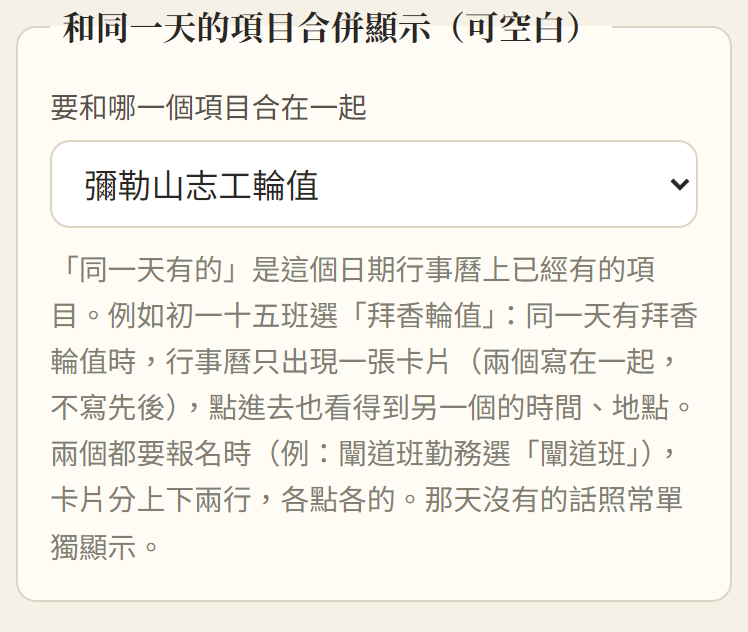
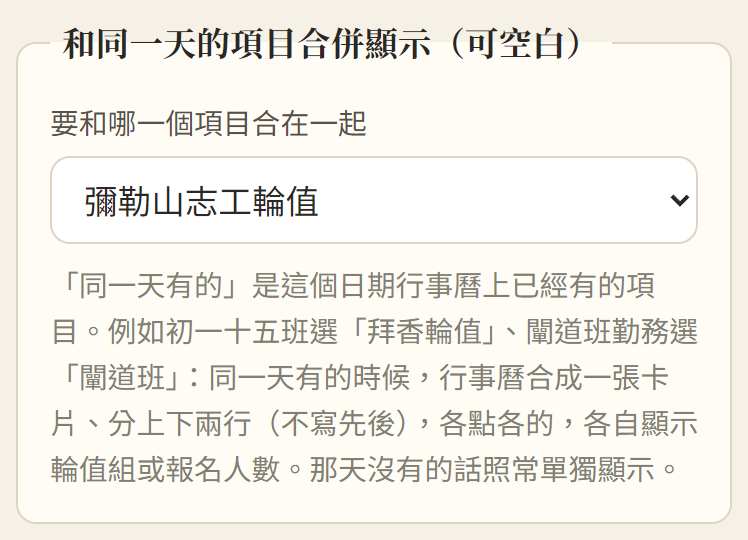
初一十五班＋拜香輪值的卡片也分上下兩行，和闡道班一樣

diff --git a/index.html b/index.html
@@ -23,7 +23,7 @@
   <link rel="preconnect" href="https://fonts.googleapis.com">
   <link rel="preconnect" href="https://fonts.gstatic.com" crossorigin>
   <link href="https://fonts.googleapis.com/css2?family=Noto+Sans+TC:wght@400;500;700&family=Noto+Serif+TC:wght@600;700&display=swap" rel="stylesheet">
-  <link rel="stylesheet" href="css/app.css?v=20261123o">
+  <link rel="stylesheet" href="css/app.css?v=20261123p">
   <script>try { var t = localStorage.getItem('duty-calendar:text-size'); if (t === 'l' || t === 'xl') document.documentElement.classList.add('text-' + t); } catch (e) {}</script>
 </head>
 <body class="splash-on">
@@ -118,70 +118,70 @@
   <script src="https://cdn.jsdelivr.net/npm/fullcalendar@6.1.21/index.global.min.js"></script>
   <script src="https://cdn.jsdelivr.net/npm/@fullcalendar/core@6.1.21/locales/zh-tw.global.min.js"></script>
   <!-- 改了 js、css 後把 ?v= 的日期換新，手機才不會用到舊的檔案（GitHub Pages 會快取 10 分鐘） -->
-  <script src="js/site.js?v=20261123o"></script>
-  <script src="js/region.js?v=20261123o"></script>
-  <script src="js/config.js?v=20261123o"></script>
-  <script src="js/api.js?v=20261123o"></script>
-  <script src="js/format.js?v=20261123o"></script>
-  <script src="js/member-suggest.js?v=20261123o"></script>
-  <script src="js/newcomer.js?v=20261123o"></script>
-  <script src="js/album.js?v=20261123o"></script>
-  <script src="js/member-file.js?v=20261123o"></script>
-  <script src="js/family.js?v=20261123o"></script>
-  <script src="js/lunar-util.js?v=20261123o"></script>
-  <script src="js/date-list.js?v=20261123o"></script>
-  <script src="js/share.js?v=20261123o"></script>
-  <script src="js/addcal.js?v=20261123o"></script>
-  <script src="js/duty-cache.js?v=20261123o"></script>
-  <script src="js/thanks-board.js?v=20261123o"></script>
-  <script src="js/calendar.js?v=20261123o"></script>
-  <script src="js/confirm.js?v=20261123o"></script>
-  <script src="js/reschedule.js?v=20261123o"></script>
-  <script src="js/signup.js?v=20261123o"></script>
-  <script src="js/duty-images.js?v=20261123o"></script>
-  <script src="js/roster-grid.js?v=20261123o"></script>
-  <script src="js/grid-page.js?v=20261123o"></script>
-  <script src="js/grid-image.js?v=20261123o"></script>
-  <script src="js/thanks-image.js?v=20261123o"></script>
-  <script src="js/celebrate.js?v=20261123o"></script>
-  <script src="js/duty.js?v=20261123o"></script>
-  <script src="js/mine.js?v=20261123o"></script>
-  <script src="js/venue-hours.js?v=20261123o"></script>
-  <script src="js/venue.js?v=20261123o"></script>
-  <script src="js/push.js?v=20261123o"></script>
-  <script src="js/admin.js?v=20261123o"></script>
-  <script src="js/admin-pages.js?v=20261123o"></script>
-  <script src="js/draft-editor.js?v=20261123o"></script>
-  <script src="js/group-fair.js?v=20261123o"></script>
-  <script src="js/admin-duties.js?v=20261123o"></script>
-  <script src="js/admin-accounts.js?v=20261123o"></script>
-  <script src="js/admin-site.js?v=20261123o"></script>
-  <script src="js/region-setup.js?v=20261123o"></script>
-  <script src="js/import-parse.js?v=20261123o"></script>
-  <script src="js/admin-import.js?v=20261123o"></script>
-  <script src="js/admin-people.js?v=20261123o"></script>
-  <script src="js/admin-hq.js?v=20261123o"></script>
-  <script src="js/stats-calc.js?v=20261123o"></script>
-  <script src="js/edu-stats.js?v=20261123o"></script>
-  <script src="js/edu-care.js?v=20261123o"></script>
-  <script src="js/admin-goals.js?v=20261123o"></script>
-  <script src="js/admin-venue.js?v=20261123o"></script>
-  <script src="js/admin-push.js?v=20261123o"></script>
-  <script src="js/tutorial.js?v=20261123o"></script>
-  <script src="js/help.js?v=20261123o"></script>
-  <script src="js/rollcall.js?v=20261123o"></script>
-  <script src="js/stats-export.js?v=20261123o"></script>
-  <script src="js/repair.js?v=20261123o"></script>
-  <script src="js/activity-report.js?v=20261123o"></script>
-  <script src="js/member-stats.js?v=20261123o"></script>
-  <script src="js/admin-stats.js?v=20261123o"></script>
-  <script src="js/admin-report.js?v=20261123o"></script>
-  <script src="js/admin-recent-signups.js?v=20261123o"></script>
-  <script src="js/admin-notice.js?v=20261123o"></script>
-  <script src="js/admin-notify.js?v=20261123o"></script>
-  <script src="js/history-parse.js?v=20261123o"></script>
-  <script src="js/admin-history.js?v=20261123o"></script>
-  <script src="js/easy-mode.js?v=20261123o"></script>
-  <script src="js/app.js?v=20261123o"></script>
+  <script src="js/site.js?v=20261123p"></script>
+  <script src="js/region.js?v=20261123p"></script>
+  <script src="js/config.js?v=20261123p"></script>
+  <script src="js/api.js?v=20261123p"></script>
+  <script src="js/format.js?v=20261123p"></script>
+  <script src="js/member-suggest.js?v=20261123p"></script>
+  <script src="js/newcomer.js?v=20261123p"></script>
+  <script src="js/album.js?v=20261123p"></script>
+  <script src="js/member-file.js?v=20261123p"></script>
+  <script src="js/family.js?v=20261123p"></script>
+  <script src="js/lunar-util.js?v=20261123p"></script>
+  <script src="js/date-list.js?v=20261123p"></script>
+  <script src="js/share.js?v=20261123p"></script>
+  <script src="js/addcal.js?v=20261123p"></script>
+  <script src="js/duty-cache.js?v=20261123p"></script>
+  <script src="js/thanks-board.js?v=20261123p"></script>
+  <script src="js/calendar.js?v=20261123p"></script>
+  <script src="js/confirm.js?v=20261123p"></script>
+  <script src="js/reschedule.js?v=20261123p"></script>
+  <script src="js/signup.js?v=20261123p"></script>
+  <script src="js/duty-images.js?v=20261123p"></script>
+  <script src="js/roster-grid.js?v=20261123p"></script>
+  <script src="js/grid-page.js?v=20261123p"></script>
+  <script src="js/grid-image.js?v=20261123p"></script>
+  <script src="js/thanks-image.js?v=20261123p"></script>
+  <script src="js/celebrate.js?v=20261123p"></script>
+  <script src="js/duty.js?v=20261123p"></script>
+  <script src="js/mine.js?v=20261123p"></script>
+  <script src="js/venue-hours.js?v=20261123p"></script>
+  <script src="js/venue.js?v=20261123p"></script>
+  <script src="js/push.js?v=20261123p"></script>
+  <script src="js/admin.js?v=20261123p"></script>
+  <script src="js/admin-pages.js?v=20261123p"></script>
+  <script src="js/draft-editor.js?v=20261123p"></script>
+  <script src="js/group-fair.js?v=20261123p"></script>
+  <script src="js/admin-duties.js?v=20261123p"></script>
+  <script src="js/admin-accounts.js?v=20261123p"></script>
+  <script src="js/admin-site.js?v=20261123p"></script>
+  <script src="js/region-setup.js?v=20261123p"></script>
+  <script src="js/import-parse.js?v=20261123p"></script>
+  <script src="js/admin-import.js?v=20261123p"></script>
+  <script src="js/admin-people.js?v=20261123p"></script>
+  <script src="js/admin-hq.js?v=20261123p"></script>
+  <script src="js/stats-calc.js?v=20261123p"></script>
+  <script src="js/edu-stats.js?v=20261123p"></script>
+  <script src="js/edu-care.js?v=20261123p"></script>
+  <script src="js/admin-goals.js?v=20261123p"></script>
+  <script src="js/admin-venue.js?v=20261123p"></script>
+  <script src="js/admin-push.js?v=20261123p"></script>
+  <script src="js/tutorial.js?v=20261123p"></script>
+  <script src="js/help.js?v=20261123p"></script>
+  <script src="js/rollcall.js?v=20261123p"></script>
+  <script src="js/stats-export.js?v=20261123p"></script>
+  <script src="js/repair.js?v=20261123p"></script>
+  <script src="js/activity-report.js?v=20261123p"></script>
+  <script src="js/member-stats.js?v=20261123p"></script>
+  <script src="js/admin-stats.js?v=20261123p"></script>
+  <script src="js/admin-report.js?v=20261123p"></script>
+  <script src="js/admin-recent-signups.js?v=20261123p"></script>
+  <script src="js/admin-notice.js?v=20261123p"></script>
+  <script src="js/admin-notify.js?v=20261123p"></script>
+  <script src="js/history-parse.js?v=20261123p"></script>
+  <script src="js/admin-history.js?v=20261123p"></script>
+  <script src="js/easy-mode.js?v=20261123p"></script>
+  <script src="js/app.js?v=20261123p"></script>
 </body>
 </html>

diff --git a/js/calendar.js b/js/calendar.js
@@ -641,27 +641,15 @@
       </a>`;
   }
 
-  /** 合併的卡片：同一天的兩個項目寫在一起（上面拜香輪值的時間、輪值組，下面「＋ 初一十五班」；不寫先後順序）；點進去到要報名的那一筆 */
+  /**
+   * 合併的卡片：同一天的兩個項目寫在一起。2026/11/23 起一律分上下兩行（和闡道班一樣）：
+   * 例：上面「十月十五拜香輪值」（公告型，徽章寫輪值組）、下面「初一十五班」（報名人數），各點各的。
+   */
   function mergedCardHtml(item, date, compact) {
-    const host = item.duty;
-    // 兩筆都要報名（例：闡道班＋闡道班勤務，2026/11/21）：一張卡片分上下兩行，各自點、各自的狀態徽章
-    if (host.mode !== '公告型') return splitCardHtml(item, date, compact);
-    const first = item.follow[0].duty;
-    const st = item.state;
-    const cat = catTag;
-    const hostMeta = [Fmt.cardTime(host, date), host.location, item.hostState && item.hostState.kind === 'notice' ? item.hostState.label : Fmt.groupText(host)].filter(Boolean);
-    return `
-      <a class="duty-card kind-${st.kind} is-merged${compact ? ' is-compact' : ''}" href="#/duty/${encodeURIComponent(first.id)}?date=${date}">
-        <span class="card-main">
-          <span class="card-title">${cat(host)}${Fmt.esc(host.name)}</span>
-          ${hostMeta.length ? `<span class="card-meta">${hostMeta.map(Fmt.esc).join('・')}</span>` : ''}
-          ${item.follow.map((f) => `<span class="card-follow">＋ ${cat(f.duty)}${Fmt.esc(f.duty.name)}${mine.keys.has(f.duty.id + '|' + date) ? '<span class="card-mine">✓ 我有報名</span>' : ''}${f.duty.startTime ? `<small>${Fmt.esc(f.duty.startTime)}</small>` : ''}</span>`).join('')}
-        </span>
-        <span class="badge badge-${st.kind}">${Fmt.esc(st.label)}</span>
-      </a>`;
+    return splitCardHtml(item, date, compact);
   }
 
-  /** 合併卡片（兩筆都要報名）：上面一行是班（點了去報名上課），虛線下面是勤務（點了去報名勤務），各有自己的徽章 */
+  /** 合併卡片：上面一行是先列的那筆（班、拜香輪值），虛線下面是另一筆，各點各的、各有自己的徽章 */
   function splitCardHtml(item, date, compact) {
     const row = (duty, st, plus) => {
       const meta = [Fmt.cardTime(duty, date), plus ? '' : duty.location].filter(Boolean);

diff --git a/js/admin-duties.js b/js/admin-duties.js
@@ -899,7 +899,7 @@
           <fieldset class="form-block">
             <legend>和同一天的項目合併顯示（可空白）</legend>
             <label class="form-row"><span>要和哪一個項目合在一起</span><select class="input" name="merge" data-merge-pick>${mergeOptions()}</select></label>
-            <p class="hint">「同一天有的」是這個日期行事曆上已經有的項目。例如初一十五班選「拜香輪值」：同一天有拜香輪值時，行事曆只出現一張卡片（兩個寫在一起，不寫先後），點進去也看得到另一個的時間、地點。兩個都要報名時（例：闡道班勤務選「闡道班」），卡片分上下兩行，各點各的。那天沒有的話照常單獨顯示。</p>
+            <p class="hint">「同一天有的」是這個日期行事曆上已經有的項目。例如初一十五班選「拜香輪值」、闡道班勤務選「闡道班」：同一天有的時候，行事曆合成一張卡片、分上下兩行（不寫先後），各點各的，各自顯示輪值組或報名人數。那天沒有的話照常單獨顯示。</p>
           </fieldset>
 
           <fieldset class="form-block">

diff --git a/docs/spec.md b/docs/spec.md
@@ -140,7 +140,7 @@
 2. **新增／編輯勤務**：名稱、性質、模式、日期型態、地點、時段、負責組、服裝、DM、說明、了愿項目與名額。
    - **負責組可以好幾組（2026/11/19）**：選了分組類型後，負責組用勾選，可以勾好幾組（例：第1、3、5組），存成「第1組、第3組、第5組」（同一格，「、」隔開；所以組名不能有「、」）。每一組都要存在；家人們看到「負責：第1組、第3組」和各組組長（「、」接起來）；後台名單每組一行組長與電話；報名時這幾組的組員都排前面、都能留組員備註；分組頁的負責次數、建議負責組每一組各算一次；改組名只換掉那一組；其中一組還在負責就不能刪；批次匯入寫「打掃組 第1組、第3組」。農曆規則「每次同一組」、「📷 從照片新增」的草稿也可以勾好幾組；「依序輪流」還是一次一組。
    - **職司表（2026/10/4，12人小組這類多天輪值）**：勤務可勾「用職司表顯示」（版面＝職司表；道務、教育與公告型不提供）。報名方式不變（選了愿項目→勾日期→填名字），家人們的勤務頁「報名名單」改成職司表：一欄一天（今天那欄標示）、第二列是每天人數（不含陪同）、一列一個了愿項目的格子（列數＝該項目人最多的那天，空格顯示「—」），左邊項目欄固定、表格左右滑；原本的每日名單收進「每天的名單（要取消或改期點這裡）」。**職司表大頁面** `#/grid/<勤務ID>`（可單獨分享）：行事曆點這種勤務一樣先到報名頁，報名頁有「📋 打開大張職司表」按鈕。上方藍色大標題（日期、名稱、地點時段）與階段進度條（膠囊，電腦一列、手機兩欄，現在的階段白底亮起），中間滿版職司表（第一次打開捲到今天那欄），下方職司說明與服裝（說明的版面：「【烹飪】」開頭的一行自成一區、左邊配圖示；**粗體**；「>」開頭的一行是小標重點，例：> 職司完整不空窗：前一天晚上 → 當天。報名頁的說明也一樣），最下面的「我要報名」按鈕（2026/10/20 起不浮動）到勤務頁並直接捲到報名表單；每 30 秒自動更新（保留左右、上下滑的位置，整頁不跳回最上面，2026/11/4）。管理者在後台名單可「★ 設組長」（排在該格第一個，名字前顯示 ★）與「加註記」（最多 100 字，家人們點名字旁的「註」，在名字旁跳出小泡泡顯示姓名、日期與註記）；家人們報名時每個名字下也可以自己填「註記」（可空白，例：8:00-19:00、代理人），每筆報名各自設定，寫入操作紀錄。「階段」欄一行一個「日期｜說明」（例：即日起~9/13｜向區中心報名了愿日期），勤務頁上方顯示成時間軸：已過的變淡、今天所在的階段亮起並標「進行中」（今天不在任何階段時亮下一個）；日期年份跟著勤務開始日，跨年自動判斷。**「階段」留空時自動推算**（12人小組的節奏，三個階段）：③ 壇辦班職司最後調整＝輪值第一天之前的禮拜一（壇辦班都在禮拜一）；② 職司安排＝再前一週的禮拜一～禮拜五；① 報名了愿日期＝③ 往前三週的禮拜一～職司安排前一天（禮拜日）。例：11/8 開始 → 10/12~10/25、10/26~10/30、11/2(一)。後台表單會顯示推算結果；有填就用填的。
-   - **合併顯示（2026/10/5）**：勤務可填「和同一天的項目合併顯示」（名稱含這幾個字，例：初一十五班填「拜香輪值」；可同名一起改）。行事曆（月曆格子、當天清單、週、近期）同一天有符合的項目時合成一張卡片：上面是先的那筆（🙏 名稱、時間、地點、輪值組），下面「＋ 初一十五班」，徽章看要報名的那筆，點進去到要報名的那筆；報名頁最上面有「📅 同一天還有：九月初一拜香輪值」區塊（時間、地點、輪值組、服裝；另一筆也要報名時連結寫「👉 去報名○○ ›」，公告型寫「看○○的詳情 ›」）。也可以用在「班＋勤務」（例：闡道班勤務填「闡道班」，上課報名和勤務報名合成一張卡片）：**另一筆不是公告型時，卡片分上下兩行（虛線隔開），上面是班、下面是勤務，各自點進各自的報名頁、各有自己的徽章與「✓ 我有報名」，報名頁不再放「📅 同一天還有」那一塊**；另一筆是公告型（例：拜香輪值）時照舊一張卡片，點進去到要報名的那筆。**2026/11/21 起不寫「先／接著」**（家人們會誤會順序），卡片也不加 🙏。那天沒有符合的就單獨顯示。資料仍各自獨立（拜香算勤務、初一十五班看報名）。**2026/11/22 起改用選的**：表單的「要和哪一個項目合在一起」是下拉選單，「（不合併）」、「同一天有的」（日期範圍和這筆重疊的其他項目，日期或名稱改了會跟著更新）、「其他用過的名稱」（最近的在前）；名稱前面的農曆日期拿掉（九月初一拜香輪值 → 拜香輪值），自己的名稱不列；以前打的字不在清單裡時保留並標「（目前的設定）」。存的仍是文字，比對規則不變（名稱含這幾個字）。
+   - **合併顯示（2026/10/5）**：勤務可填「和同一天的項目合併顯示」（名稱含這幾個字，例：初一十五班填「拜香輪值」；可同名一起改）。行事曆（月曆格子、當天清單、週、近期）同一天有符合的項目時合成一張卡片：上面是先的那筆（🙏 名稱、時間、地點、輪值組），下面「＋ 初一十五班」，徽章看要報名的那筆，點進去到要報名的那筆；報名頁最上面有「📅 同一天還有：九月初一拜香輪值」區塊（時間、地點、輪值組、服裝；另一筆也要報名時連結寫「👉 去報名○○ ›」，公告型寫「看○○的詳情 ›」）。也可以用在「班＋勤務」（例：闡道班勤務填「闡道班」，上課報名和勤務報名合成一張卡片）：**另一筆不是公告型時，卡片分上下兩行（虛線隔開），上面是班、下面是勤務，各自點進各自的報名頁、各有自己的徽章與「✓ 我有報名」，報名頁不再放「📅 同一天還有」那一塊**；另一筆是公告型（例：拜香輪值）時原本是一張卡片（點進去到要報名的那筆）；**2026/11/23 起也分上下兩行，和闡道班一樣**（上面拜香輪值的時間、地點，徽章寫「輪值：第○組」，點了看拜香輪值；下面初一十五班的報名人數，點了去報名），報名頁的「📅 同一天還有」照舊。**2026/11/21 起不寫「先／接著」**（家人們會誤會順序），卡片也不加 🙏。那天沒有符合的就單獨顯示。資料仍各自獨立（拜香算勤務、初一十五班看報名）。**2026/11/22 起改用選的**：表單的「要和哪一個項目合在一起」是下拉選單，「（不合併）」、「同一天有的」（日期範圍和這筆重疊的其他項目，日期或名稱改了會跟著更新）、「其他用過的名稱」（最近的在前）；名稱前面的農曆日期拿掉（九月初一拜香輪值 → 拜香輪值），自己的名稱不列；以前打的字不在清單裡時保留並標「（目前的設定）」。存的仍是文字，比對規則不變（名稱含這幾個字）。
    - **DM（2026/10/4）**：每筆可附最多 5 個照片或 PDF（照片自動縮成長邊 1600px 的 JPEG；PDF 最大 5MB），上傳後存在 Cloudflare（Durable Object SQLite 的 files 表，不同步到 Google 試算表；試算表「DM」欄只存清單 JSON：id、檔名、類型）。唯讀帳號不能上傳。家人們的勤務頁在資訊下方顯示「DM」：照片完整顯示、點了放大；PDF 是「📄 打開 PDF」大按鈕（另開分頁）。檔案網址 `API?action=file&id=F-…`，代號不重複使用，可長期快取。農曆規則可勾「初一」「十五」「閏月也要」並選產生年份。**多個日期（2026/10/4）**：新增時日期型態可選「多個日期」，一次建立同名的很多筆（例如一整年的時間表）：方法一「固定的日子」（從～到＋頻率：每週／每兩週／每三週／每四週＋勾星期幾，從「從」那一週算第 1 週；每月第一～第四個／最後一個＋勾星期幾；每月固定幾號，沒有那天的月份略過）、方法二「貼上日期清單」（認得 1/7、1月7日、2027/1/7、2027-01-07、民國 116/1/7，後面的（三）略過；只寫月日的用填的年份），兩種可一起用、重複只算一次，最多 200 個；按「產生並預覽」列出所有日期，可取消不要的（例如過年）再「確定建立 N 筆」。其他欄位填一次、每筆都一樣；不設報名截止日。教育的課程在預覽時每一天旁邊有「師資」欄（預設是表單上填的），可逐天改，或用「從～到＋師資＋套用到這段日期」一段一段指定。預覽時**國定假日紅字、預設不勾**並標節日名稱（元旦、除夕、春節初一～初三、和平紀念日、兒童節、清明節、勞動節、端午節、教師節、中秋節、國慶日、臺灣光復節、行憲紀念日；農曆節日用 lunar-javascript 換算，清明用節氣公式；不含行政院每年公告的調整放假）；**補假**（國定假日遇星期六→前一天補假、遇星期日→隔天補假）與**連假**（國定假日、補假、六日連在一起 3 天以上，連假裡的六日也算，標「中秋節連假」）一樣紅字、預設不勾，要的話可再勾回來。**重複提醒**：新增時同類別、同名、同一天已經有的才提醒（道務的闡道班課程和勤務的闡道班幫忙不算重複）。**同名一起刪**：刪除時若有同名的其他筆（seriesKey_），跳出清單可勾選一起刪（全選／只選今天以後的／都不選），有人報名的反灰不能勾；伺服器全部檢查過才刪，任一筆還有報名就整批不刪並列出是哪幾筆；每筆各寫一筆操作紀錄。
    - 農曆規則：選國曆起訖日期，負責組可「固定一組」或「依序輪流」，可勾「名稱前面加上農曆日期」（例「九月初一拜香輪值」）；送出前先列出所有日期確認。
    - 可「另存成新勤務」（以現有勤務為範本）。
